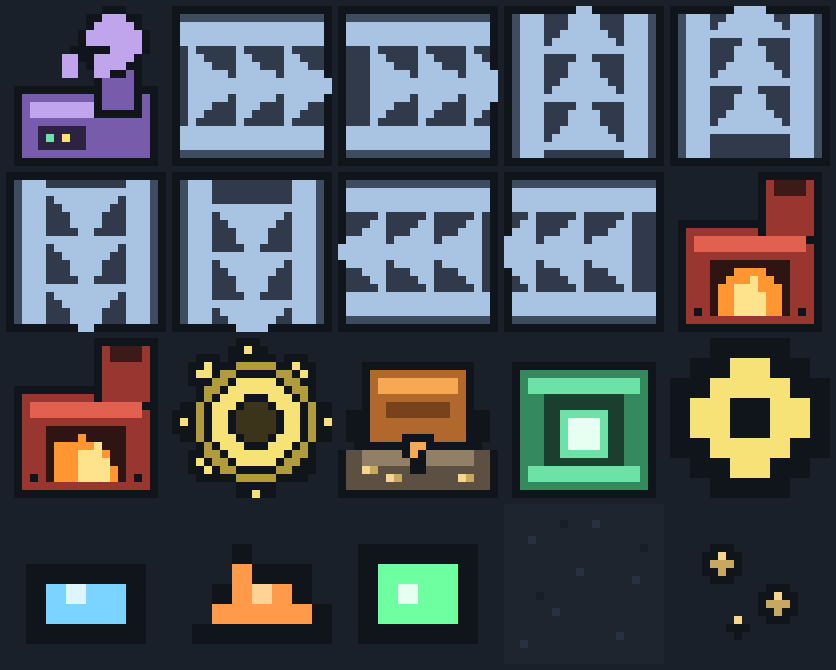
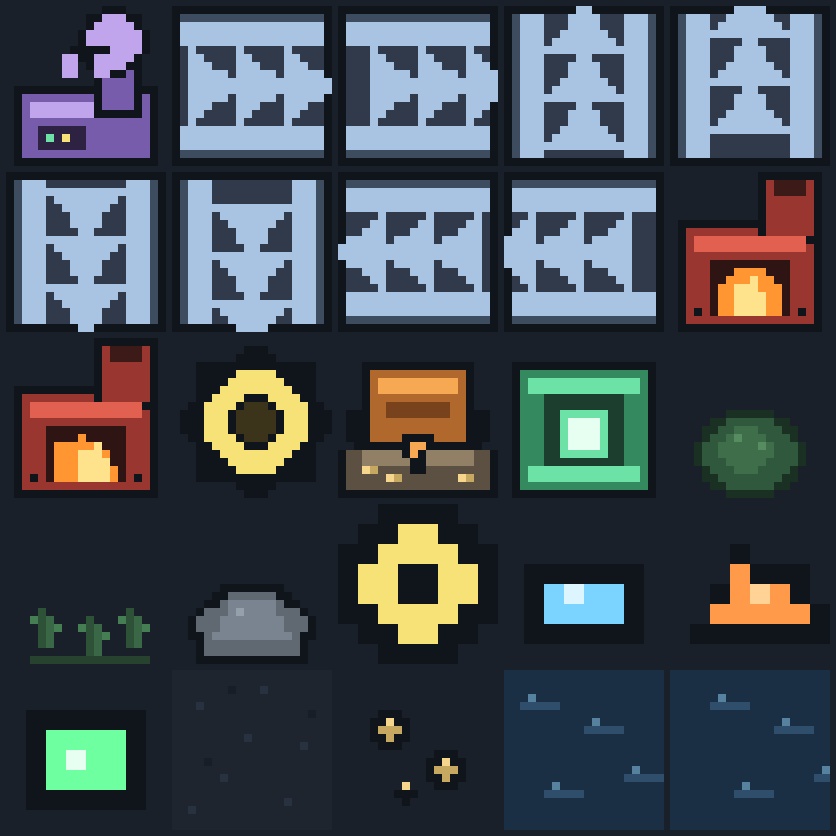
feat(art): 島嶼環境（海水動畫、沙灘、礦脈賽道底帶、草叢/灌木/石頭）

diff --git a/tools/gen_art.py b/tools/gen_art.py
@@ -215,12 +215,67 @@ def _draw_item(kind):
     return im
 
 
+
+def _draw_water(frame):
+    """20×20 可平鋪海水（2 格動畫）"""
+    im, d = canvas(S, (26, 46, 68, 255))
+    base = (26, 46, 68, 255)
+    wave = (46, 78, 108, 255)
+    foam = (86, 130, 160, 255)
+    d.rectangle([0, 0, 19, 19], fill=base)
+    off = 0 if frame == 0 else 3
+    for (x, y) in ((2, 4), (10, 7), (15, 13), (5, 15)):
+        xx = (x + off) % 20
+        d.line([xx, y, min(xx + 4, 19), y], fill=wave)
+        d.point((min(xx + 1, 19), y - 1), foam)
+    return im
+
+
+def _draw_grass():
+    """透明底草叢，貼喺格底"""
+    im, d = canvas(S)
+    blades = ((4, 17), (10, 18), (15, 17))
+    for (x, y) in blades:
+        d.line([x, y, x, y - 4], fill=(46, 82, 56, 255))
+        d.line([x + 1, y, x + 1, y - 3], fill=(58, 104, 70, 255))
+        d.point((x - 1, y - 3), (70, 126, 84, 255))
+        d.point((x + 2, y - 2), (70, 126, 84, 255))
+    d.line([3, 19, 17, 19], fill=(40, 66, 48, 255))
+    return im
+
+
+def _draw_bush():
+    """透明底灌木"""
+    im, d = canvas(S)
+    d.ellipse([3, 9, 16, 19], fill=(26, 48, 34, 255))
+    d.ellipse([4, 10, 15, 18], fill=(48, 88, 60, 255))
+    d.ellipse([6, 11, 12, 16], fill=(62, 110, 74, 255))
+    d.point((8, 12), (86, 140, 96, 255))
+    d.point((11, 13), (86, 140, 96, 255))
+    return im
+
+
+def _draw_rock():
+    """透明底石頭"""
+    im, d = canvas(S)
+    d.polygon([(3, 19), (2, 14), (6, 10), (13, 10), (17, 14), (16, 19)], fill=(16, 20, 27, 255))
+    d.polygon([(4, 18), (3, 14), (7, 11), (12, 11), (16, 14), (15, 18)], fill=(96, 104, 114, 255))
+    d.polygon([(5, 16), (7, 12), (12, 12), (14, 16)], fill=(122, 132, 144, 255))
+    d.point((8, 13), (150, 160, 172, 255))
+    return im
+
 def gen():
-    for sub in ("tiles", "buildings", "items"):
+    for sub in ("tiles", "buildings", "items", "deco"):
         (ART / sub).mkdir(parents=True, exist_ok=True)
 
     _draw_ground().save(ART / "tiles" / "ground.png")
     _draw_ore().save(ART / "tiles" / "ore.png")
+    _draw_water(0).save(ART / "tiles" / "water_a.png")
+    _draw_water(1).save(ART / "tiles" / "water_b.png")
+    (ART / "deco").mkdir(parents=True, exist_ok=True)
+    _draw_grass().save(ART / "deco" / "grass.png")
+    _draw_bush().save(ART / "deco" / "bush.png")
+    _draw_rock().save(ART / "deco" / "rock.png")
     _draw_miner().save(ART / "buildings" / "miner.png")
     _draw_gear().save(ART / "buildings" / "gear.png")
     _draw_assembler().save(ART / "buildings" / "assembler.png")

diff --git a/DESIGN-SPEC.md b/DESIGN-SPEC.md
@@ -253,6 +253,18 @@ LOOP 2 結算 — 交貨 24 / 56
 有趣現象：18 AP 啱啱好唔夠鋪兩條完整線（18 件），所以玩家會自然變成
 「今個 loop 鋪一條 + 開個頭，下個 loop 用回返嘅 AP 收尾」—— 呢個係免費多出嚟嘅節奏層次。
 
+## 6.85 島嶼環境（本版新增）
+
+| 元素 | 做法 |
+|---|---|
+| 海 | 20×20 可平鋪海水，2 格動畫（每 14 tick 換） |
+| 沙灘 | 棋盤外圍 10px 沙色邊 + 深色外框 |
+| 礦脈賽道 | 每條礦脈一行淡棕色底帶（唔影響建造） |
+| 草叢／灌木／石頭 | 每格用固定 hash 決定（約 8% 格有嘢），純視覺、唔阻建造 |
+| 位置固定 | hash 只用格座標，所以重播、預演、重開都一樣 |
+
+> 裝飾**唔會**影響模擬：只係繪製層。_deco_key(x, y) 係純函數，冇用 random。
+
 ## 7. 下一步
 
 1. 關卡化（目標 / loop 上限 / 礦脈數量做參數＋開場／勝負流程）
